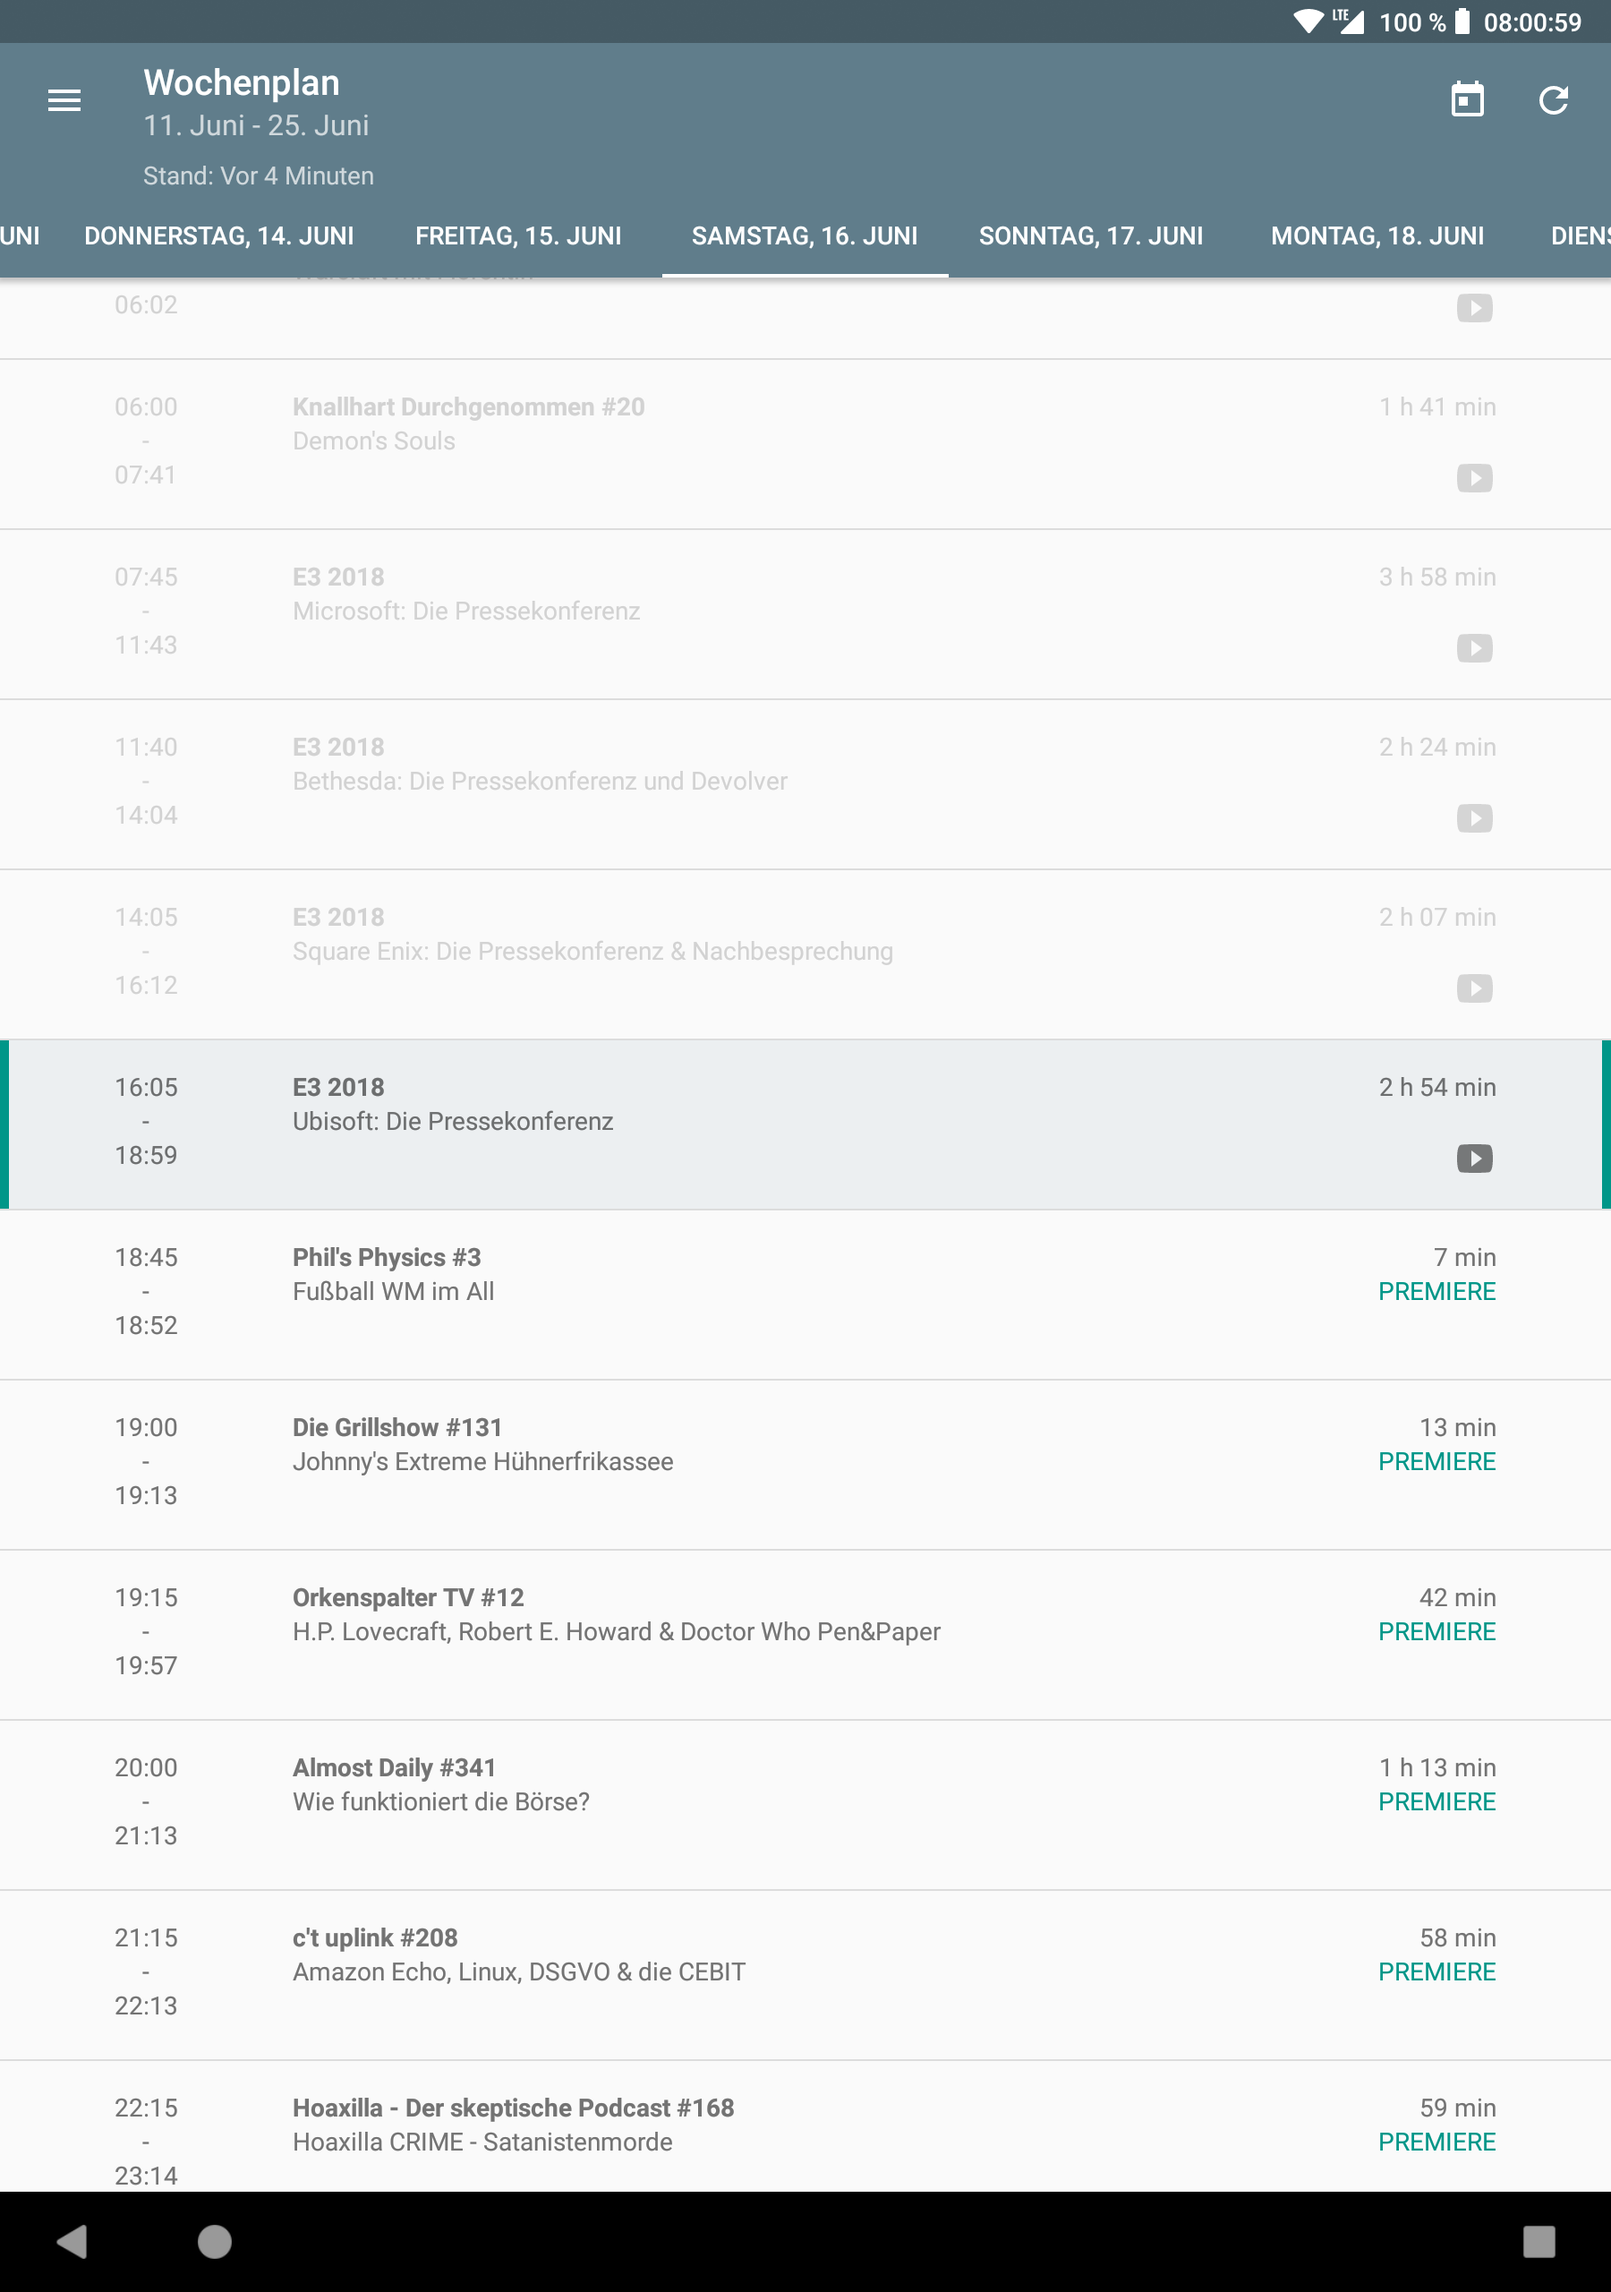
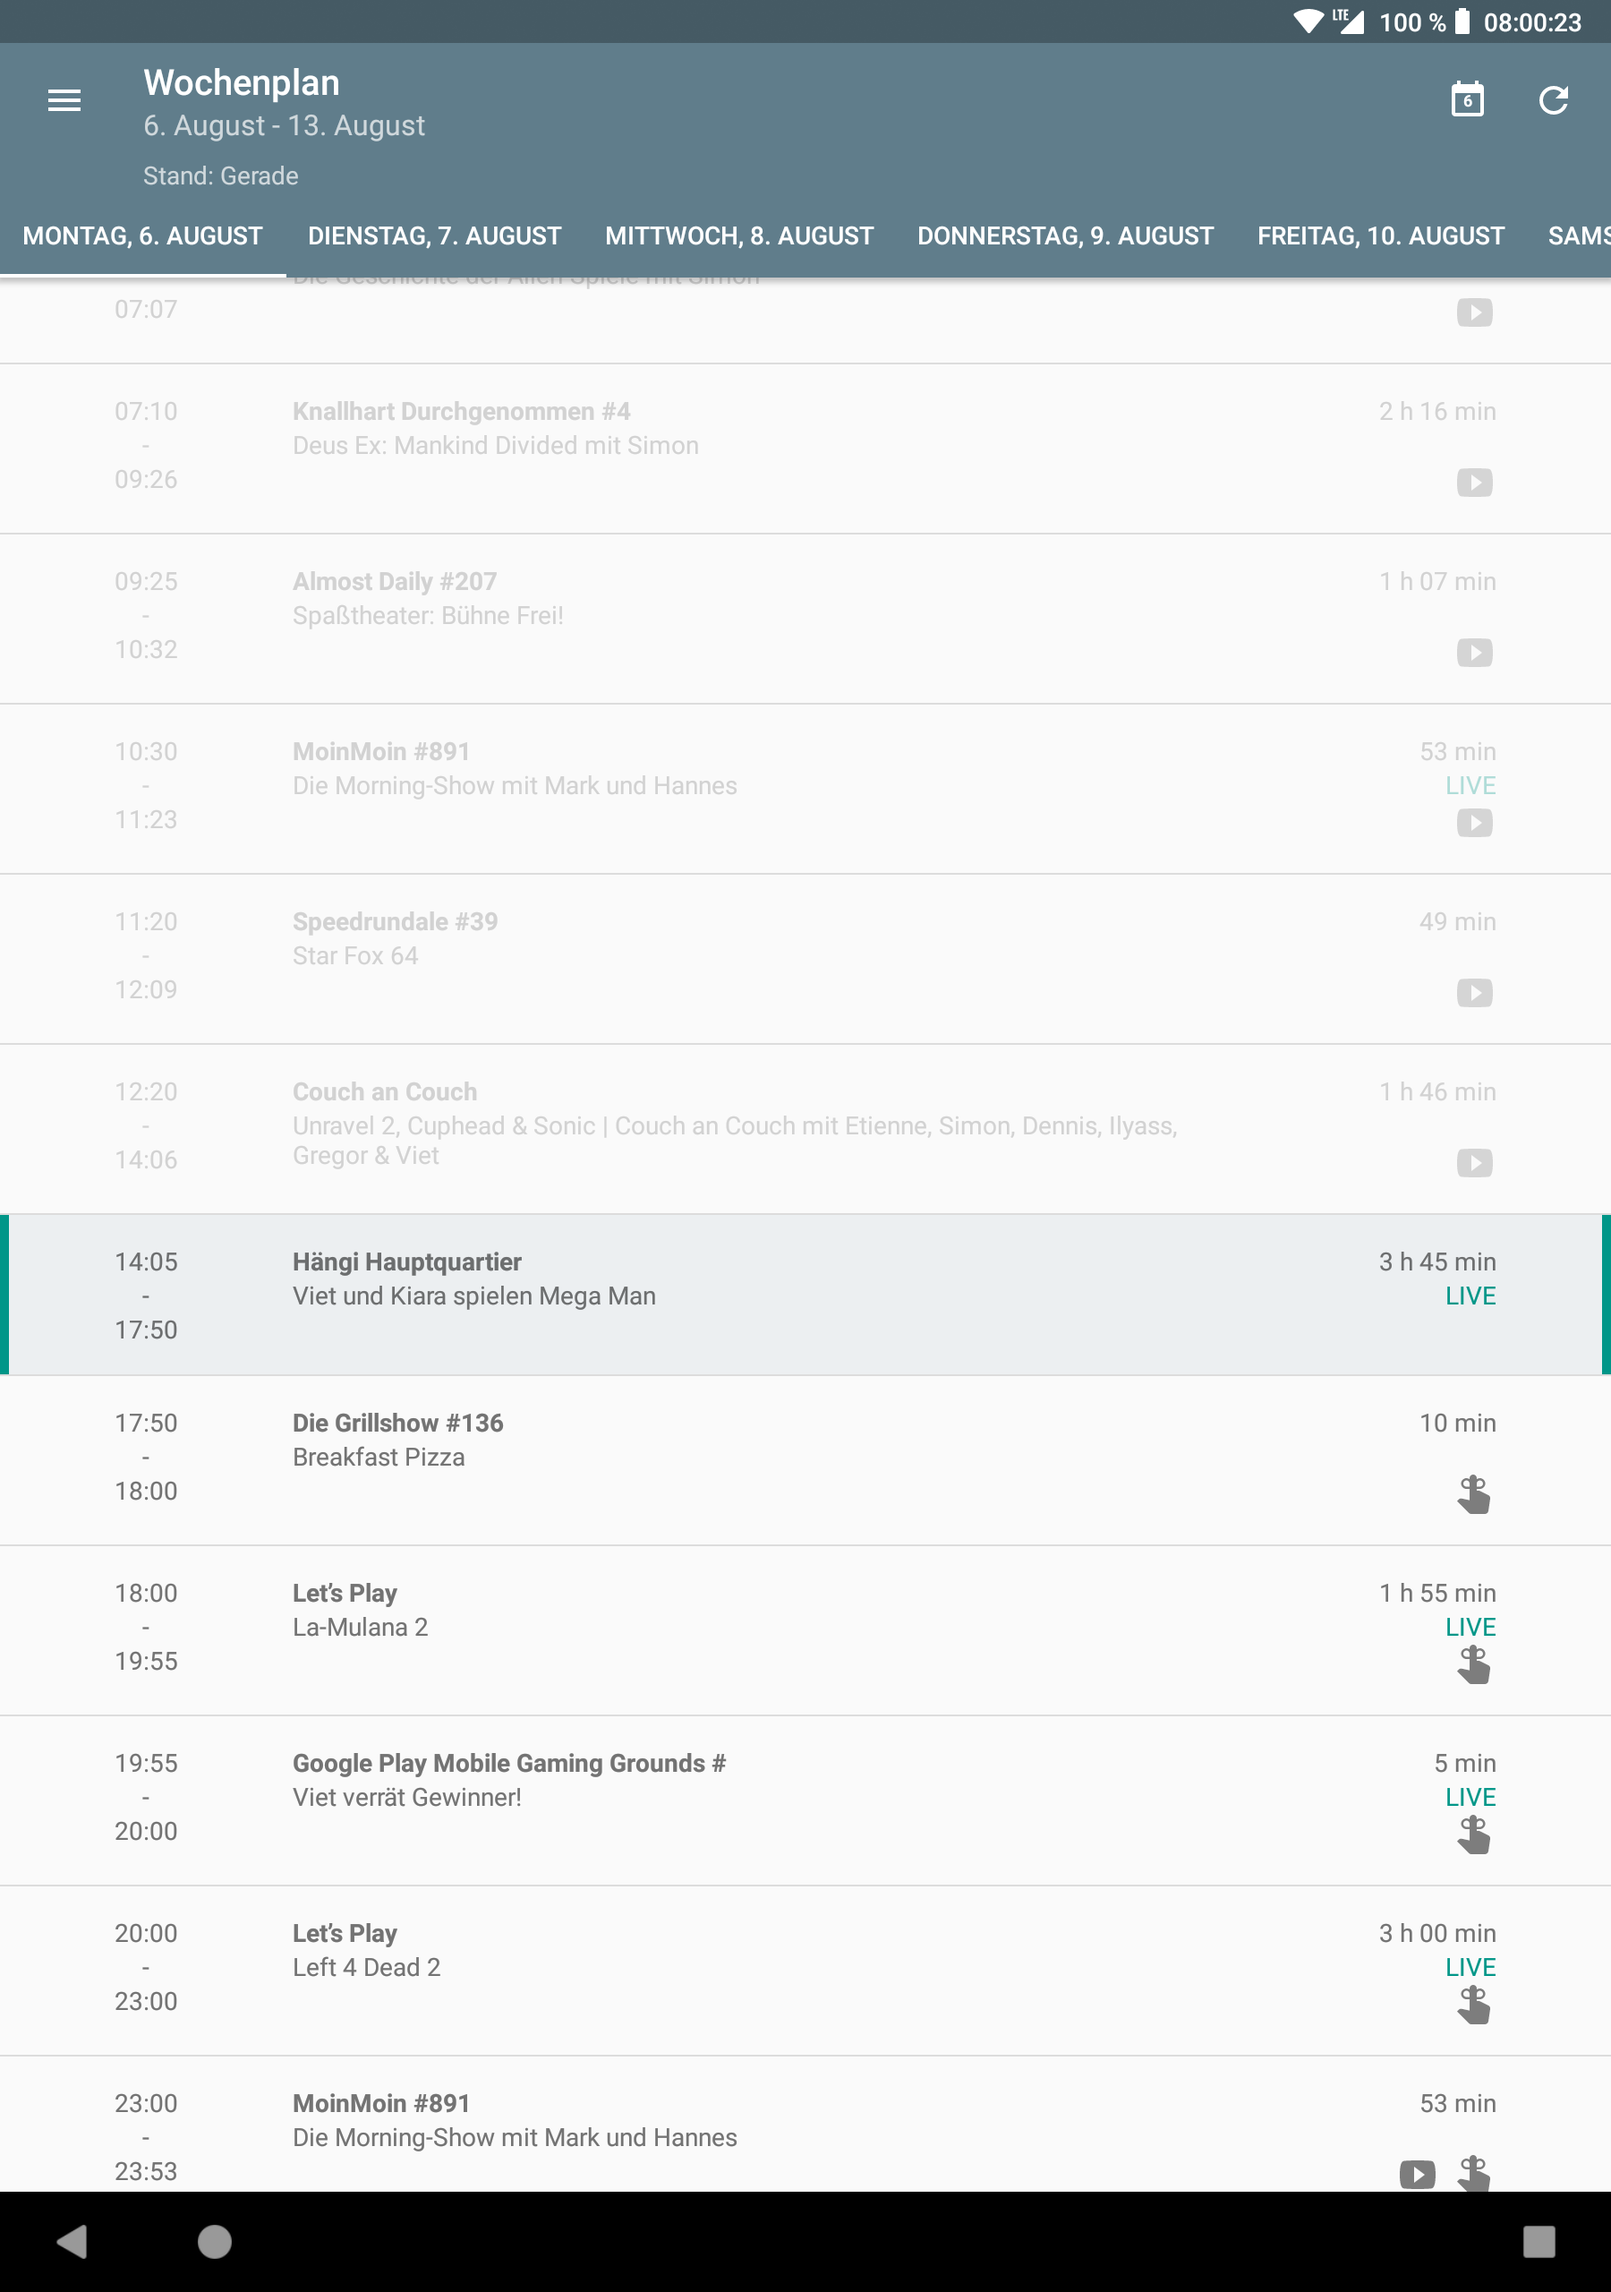
Update screenshots and readme

diff --git a/README.md b/README.md
@@ -2,30 +2,34 @@
 
 # Beans Plan [![Build Status](https://travis-ci.org/metzgore/BeansPlan.svg?branch=master)](https://travis-ci.org/metzgore/BeansPlan)
 
-**Beans Plan** is an Android app which downloads and shows the daily and weekly schedules of the online streaming station [Rocketbeans TV](https://www.rocketbeans.tv/).
+**Beans Plan** is an Android app which downloads and shows the weekly schedule of the online streaming station [Rocketbeans TV](https://www.rocketbeans.tv/).
 The schedule data is used from <http://api.rbtv.rodney.io>.
+You can add reminders for future shows so you never miss a live show again.
 
 </br>
 
 ## Screenshots
-Daily schedule
-
-<img src="/screenshots/screenshot_daily_schedule_phone.png" width="40%">
-
 Weekly schedule
 
 <img src="/screenshots/screenshot_weekly_schedule_phone.png" width="40%">
 
+Reminders
+
+<img src="/screenshots/screenshot_reminders_phone.png" width="40%">
+
 ## Used patterns and libraries
-The app utilizes MVVM pattern, Android LiveData, ViewModel, Data Binding, and various libraries, including:
+The app utilizes MVVM pattern, Android LiveData, ViewModel, Room, Data Binding, and various libraries, including:
 * [Retrofit](https://square.github.io/retrofit/)
 * [Dagger](https://google.github.io/dagger/)
 * [Gson](https://github.com/google/gson)
 * [commons-lang](https://github.com/apache/commons-lang)
 
 ## Current Features
-* Download and show daily and weekly schedules
-* Cache schedules for offline usage
+* Download and show weekly schedule
+* Cache schedule for offline usage
+* Add reminders for future shows
+* Open Youtube and Twitch streams directly through reminder notification
+* Open YouTube VODs of shows by clicking on the YouTube icon in the schedule
 * Go to current day in weekly schedule
 * Highlight current running show
 
